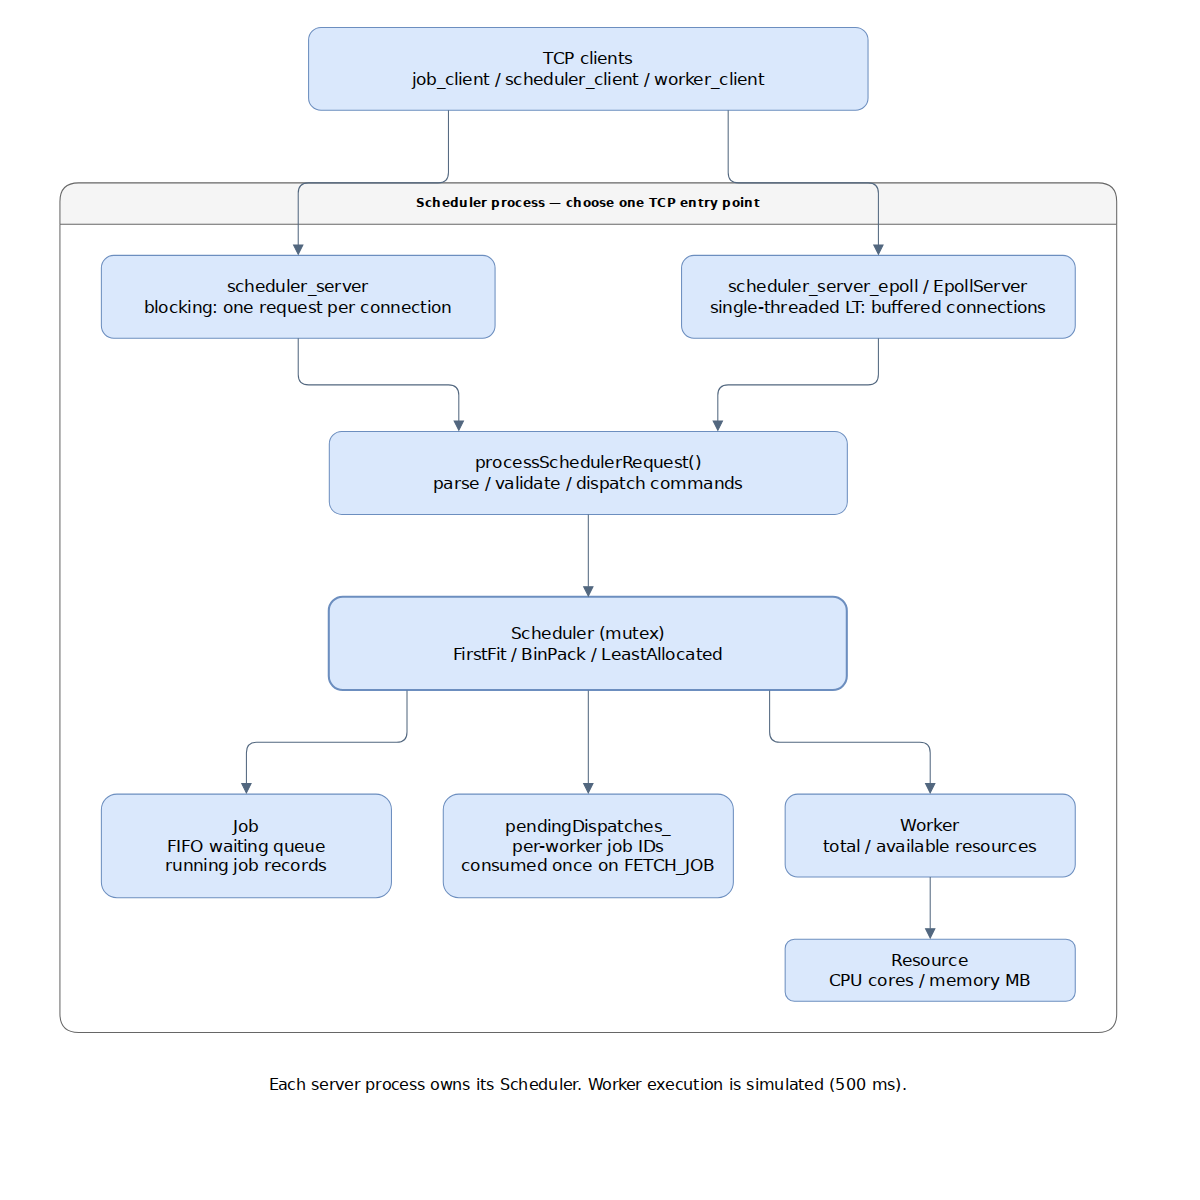
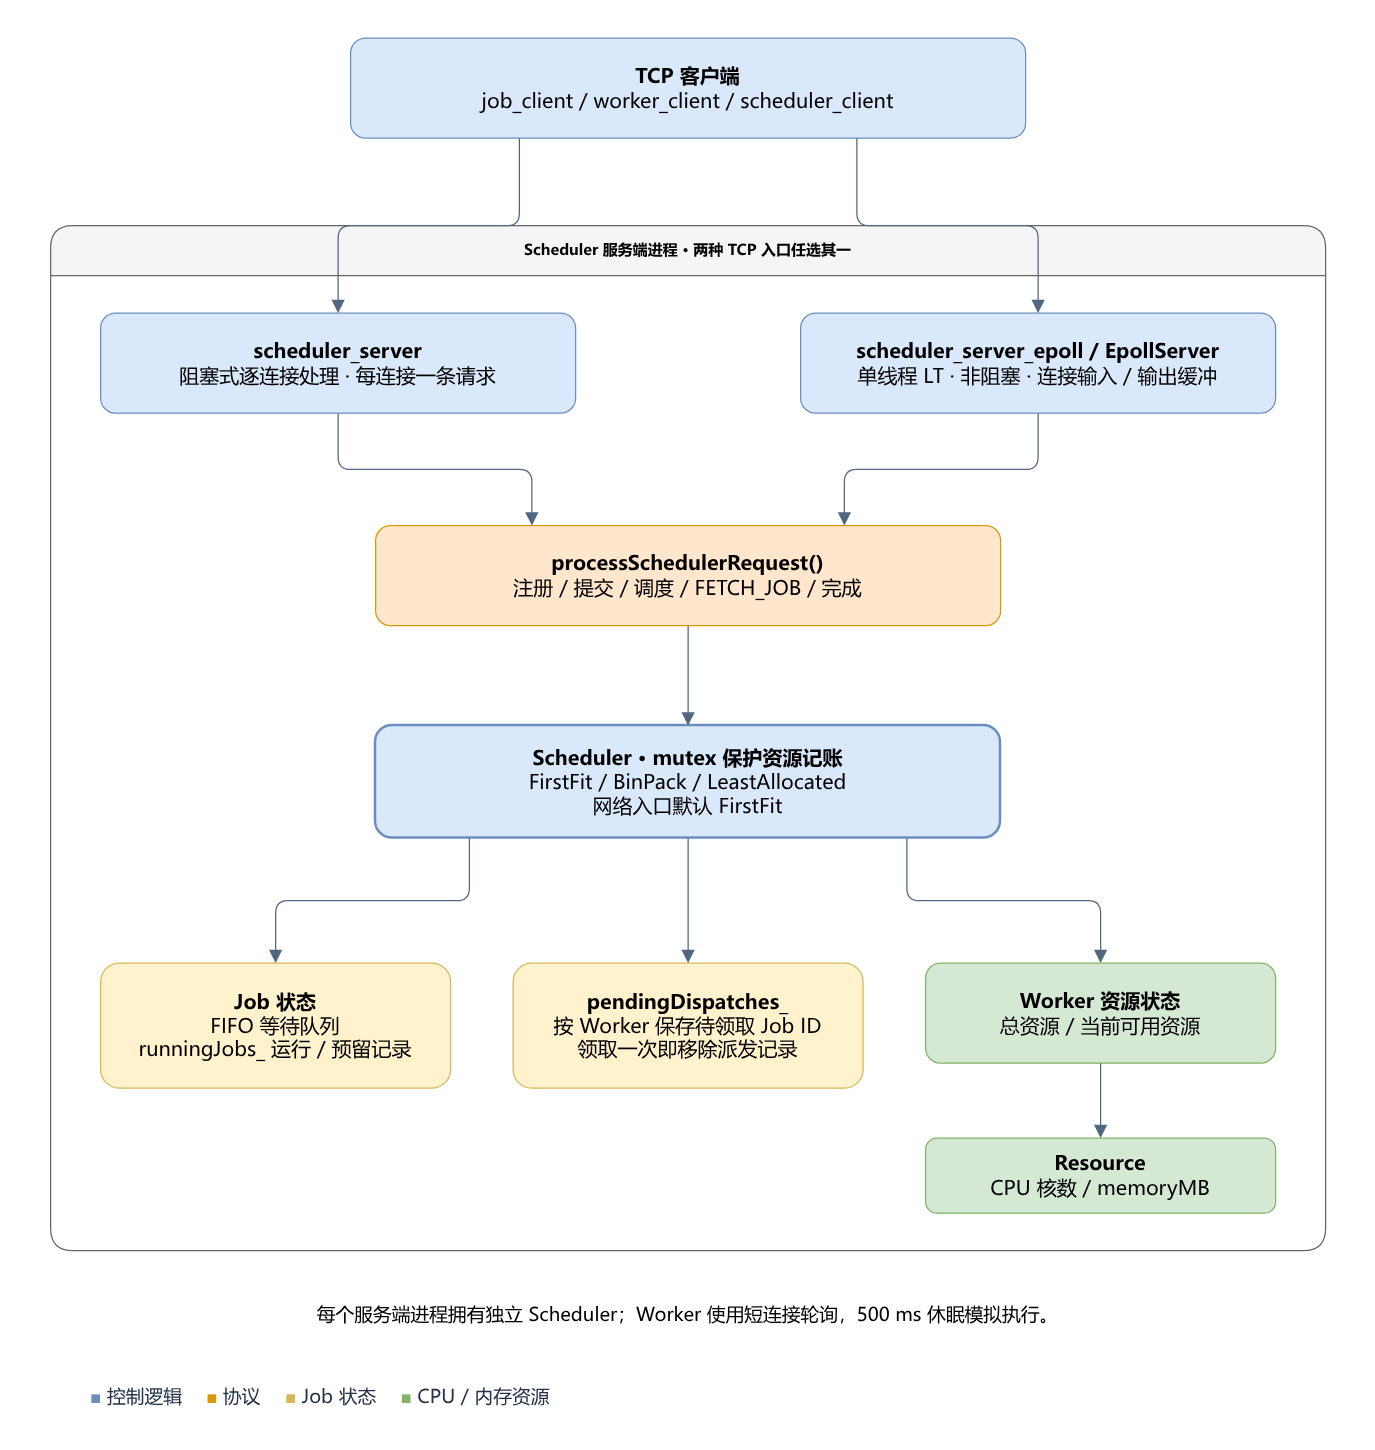
docs: expand architecture diagrams and update README

diff --git a/README.md b/README.md
@@ -25,7 +25,9 @@ flowchart TD
 ```
 
 两种服务端各自拥有独立的 Scheduler；Worker 客户端使用短连接轮询。
-[可编辑 draw.io 图](assets/architecture.drawio) · [详细图预览](assets/architecture.png)
+[可编辑 draw.io 图（4 页）](assets/architecture.drawio) · [架构总览](assets/architecture.png)
+
+[Worker 任务时序](assets/architecture-lifecycle.png) · [LT epoll 连接处理](assets/architecture-epoll.png) · [CMake 模块依赖](assets/architecture-modules.png)
 
 `apps/` 放置 6 个应用入口；`include/` 与 `src/` 按 `core/`、`net/`、`protocol/` 对应划分接口与实现。
 `tests/` 按同样的模块边界组织测试；`benchmarks/` 保存调度 benchmark、TCP 压测工具与原始结果。
